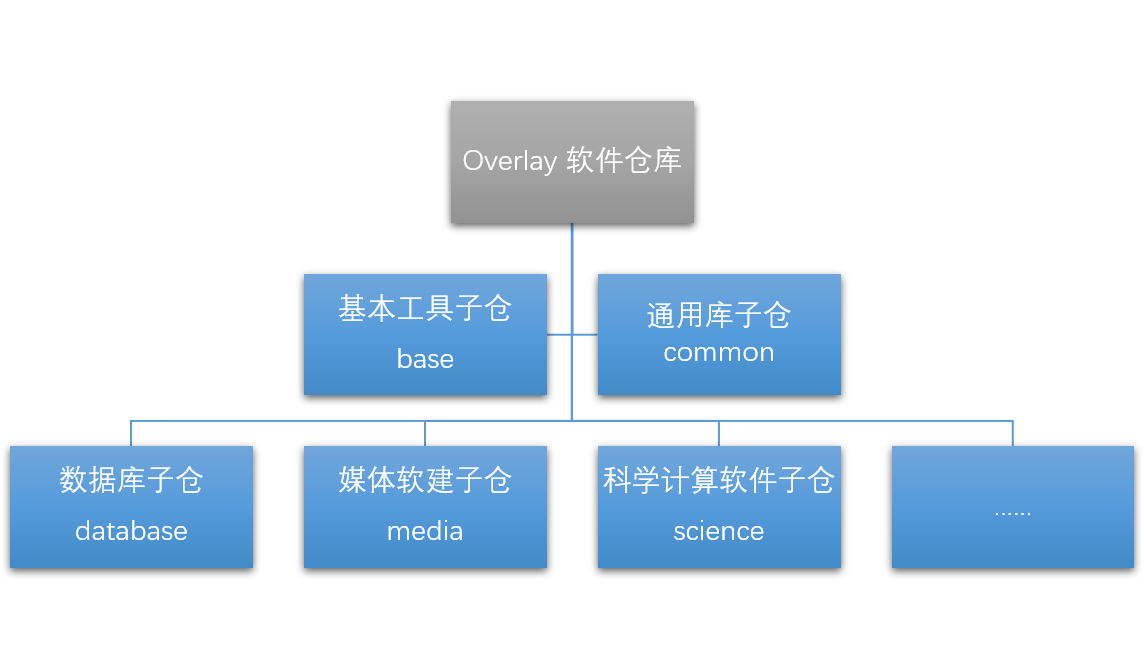
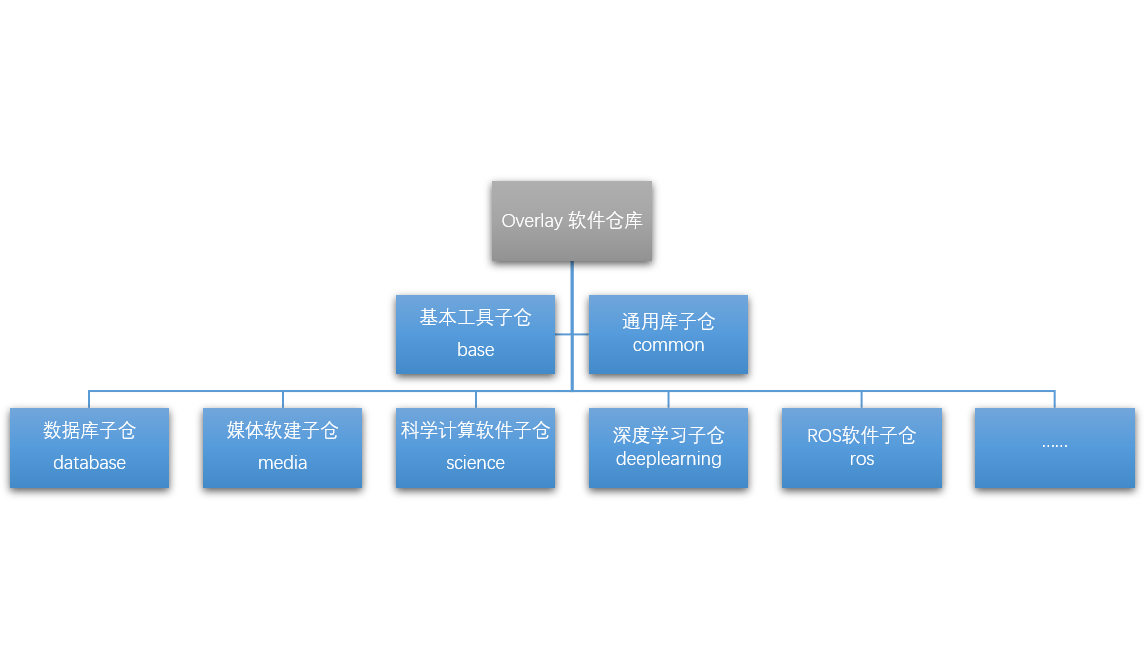
overlay: update archive defs, compatibility requirements

diff --git a/overlay/dev_guide.md b/overlay/dev_guide.md
@@ -18,32 +18,52 @@ Ubuntu 系统基于 Debian 开发，使用 `.deb` 软件包格式，因此掌握
 
 ## 仓库架构
 
-仓库目前分为四个组件：`base`, `database`, `media` 和 `science`。随着开发工作的不断进行，我们还将根据用户反馈和开发计划增设更多分类。用户可以按照需要安装以下任意数量的仓库，但是它们大多数都依赖于 `base` 组件的启用，其中承载了对基本系统开发工具如编译工具链的修改。`database` 组件主要是 MySQL、PostgreSQL 等数据库管理系统，`media` 是音视频编解码相关软件，`science` 以科学计算核心软件包为目标，主要面向科学计算和 HPC 等使用场景。
+仓库目前分为四个组件：`base`, `database`, `media` 和 `science`。随着开发工作的不断进行，我们还将根据用户反馈和开发计划增设更多分类。
+
+用户可以按照需要安装以下任意数量的仓库，但是它们大多数都依赖于 `base` 组件的启用，其中承载了对基本系统开发工具如编译工具链的修改。`database` 组件主要是 MySQL、PostgreSQL 等数据库管理系统，`media` 是音视频编解码相关软件，`science` 以科学计算核心软件包为目标，主要面向科学计算和 HPC 等使用场景。
+
+目前已规划增加的子仓还有 `common` 通用库子仓，`deeplearning` 深度学习软件子仓，`ros` 机器人软件子仓等。
 
 ![image](images/archive_defs.png)
 
 ## 总体原则
 
-仓库中的软件包需要经过仔细甄别和选型，以达到以下目的：
+仓库中的应用不是越多越好，软件包数量的增加也同事意味着维护量的增加，在达到一定数量后会导致整体的质量下降，OptimizeLab Overlay 仓库面向性能优化，定位于提供高质量维护的软件版本，因此仓库中的软件包需要经过仔细甄别和选型，以达到以下目的：
+
 1. 能够为用户带来性能提升、重要功能添加；
 2. 使用过程中不与系统现有的的软件产生冲突；
 3. 避免对使用仓库中软件的普通开发者造成干扰；例如，使动态编译的应用程序仍能在多数情况下保持和原装系统一致的 ABI 兼容性，以便在使用了本仓库的开发环境编译出的应用程序能够平顺地在没有使用本仓库的同版本环境下运行使用
 4. 要保证用户能够安全平顺地升级到更高版本的 Ubuntu LTS，即保留一条通畅的 `upgrade path`。
 5. 仅在必要位置引入修改，控制潜在维护工作规模。
 
+## 开发测试环境约定
+
+在开发过程中，需要遵循以下几点原则：
+1. 进行开发测试使用的环境，应与目标环境的大版本一致
+2. 编译测试环境为最小基本系统环境，仅安装 `build-essential` 和软件包依赖关系中显式声明了的软件包
+3. 不同软件编译测试时，每次都使用全新的环境，以免前序的编译测试活动改变了编译环境，影响后续编译结果
+4. 在编译过程中，依赖关系解析遵循唯一选择原则，即在依赖声明中有多个候选软件时，仅用将第一个用于满足依赖关系，若不能满足则编译不能继续进行
+5. 推荐使用 _sbuild_ 或 _pbuilder_ 辅助构建开发测试环境
+
+* [sbuild 使用文档](https://wiki.debian.org/sbuild)
+* [pbuilder 使用文档](https://pbuilder-team.pages.debian.net/pbuilder/)
+
+## 兼容性技术约定
+
+1. 对库函数软件进行修改时，要求保证 API 与原版本兼容，一般情况下 ABI 也要求兼容
+2. 对于不能保持 ABI 兼容性的函数库，要求检视其所有反向依赖软件，仅当反向依赖软件数量小于10且均为无深层依赖关系的 leaf package 时才可纳入评估
+3. 工具链类软件，不能对系统的默认大版本和编译参数进行静默修改
+4. 不同场景、类别的软件存放在单独的子仓内，各子仓之间除 `base` 和 `common` 外不得有依存关系
+5. 对于最终应用软件，应检视其所有反向以来软件，评估并验证存在进程调用关系情况下的行为兼容性
+
 ## FAQ
-
-### 选择性能关键位置的软件包加入仓库
-
-仓库中的应用不是越多越好，软件包数量的增加也同事意味着维护量的增加，在达到一定数量后会导致整体的质量下降，OptimizeLab Overlay 仓库面向性能优化，定位于提供高质量维护的软件版本，因此仅选择性能关键位置的软件包才加入仓库。
 
 ### 如何提交补丁
 
 现阶段请使用 issue 功能将补丁作为附件提交，目前已计划将所有支持的软件包使用 git 管理，届时可以使用 Pull Request 方式提交补丁。
 
-### 如何提交编译
-
-当前为手动触发向 Staging 仓库提交编译，经过发烟测试后拷贝至实际仓库。待所有支持的软件包使用 git 管理功能上线后，将部署 CI 进行自动触发 Staging 仓库的持续编译。
+### 现在是如何发布的，是否有计划使用 CI？
+当前为手动触发向 Staging 仓库提交编译，编译通过后拷贝至实际仓库。待所有支持的软件包使用 git 管理功能上线后，将通过 CI 进行自动触发 Staging 仓库的持续编译。
 
 ### 如何确认反向依赖关系
 
